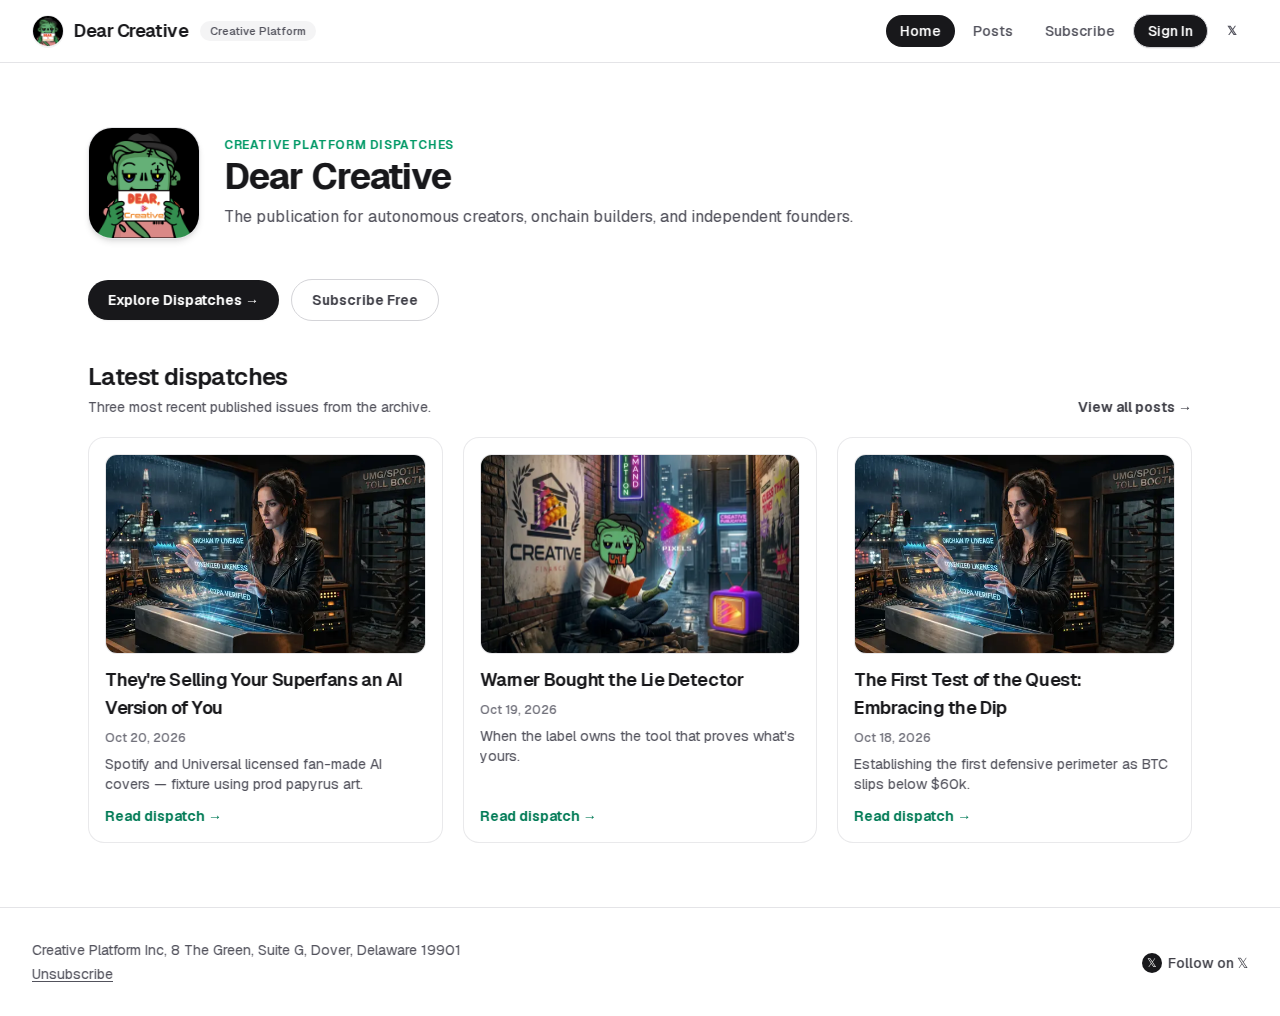
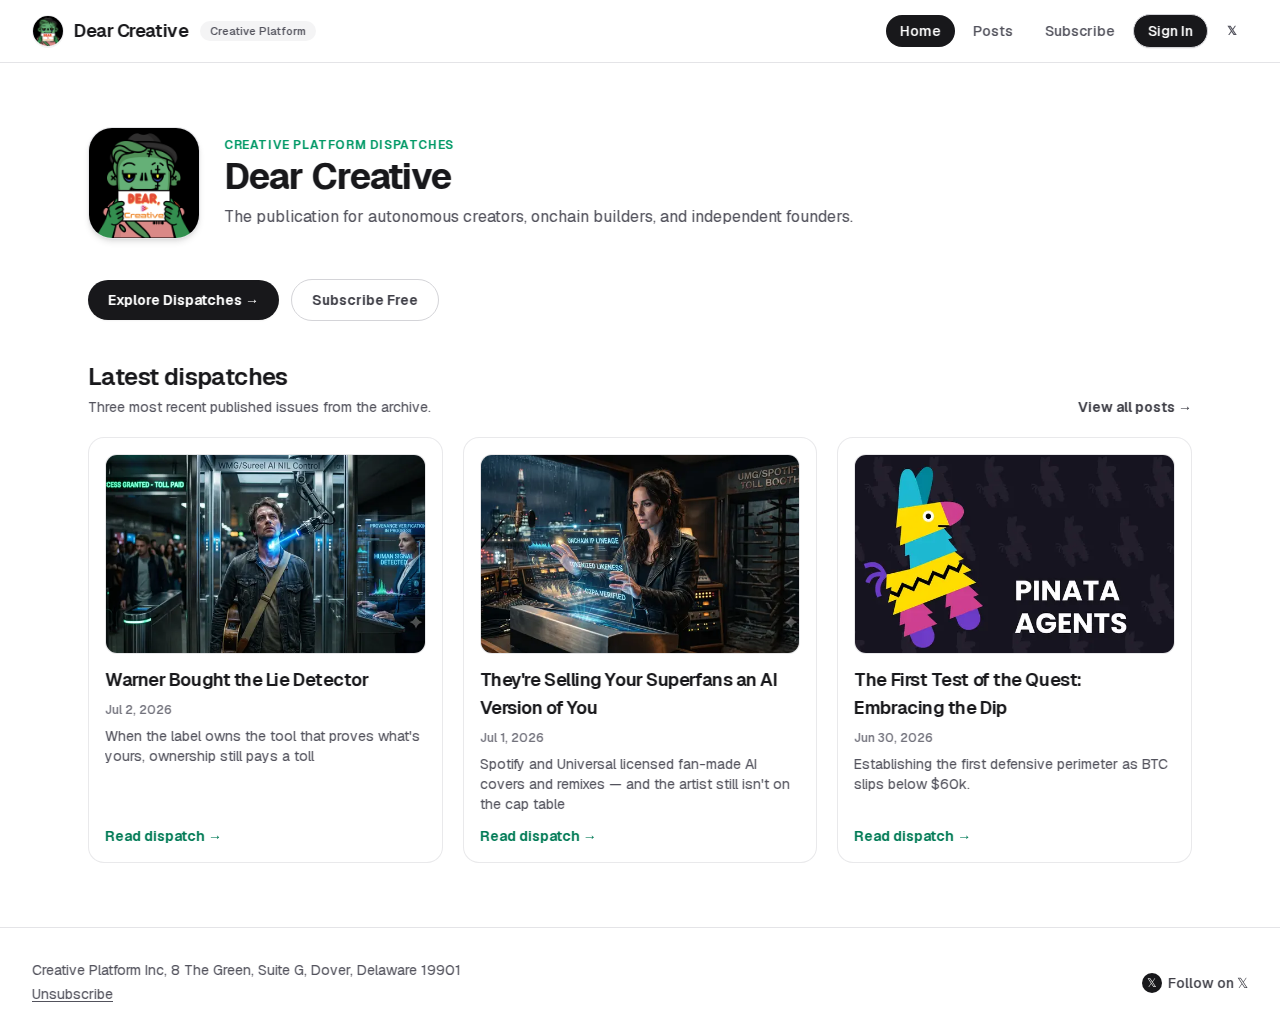
Align papyrus prod seed with real dates and distinct cover URLs
Use RSS publishedAt and first papyrus_images URL per prod post. Warner,
Superfans, and First Test each use a different cover hash in prod (verified).
Remove legacy fixture-papyrus-prod-* rows on reseed. Retake after screenshot.

diff --git a/scripts/seed-home-spotlight-fixtures.ts b/scripts/seed-home-spotlight-fixtures.ts
@@ -30,6 +30,9 @@ const FIXTURE_SLUGS = [
   "fixture-papyrus-prod-1",
   "fixture-papyrus-prod-2",
   "fixture-papyrus-prod-3",
+  "warner-bought-the-lie-detector",
+  "theyre-selling-your-superfans-an-ai-version-of-you",
+  "first-test-embracing-the-dip",
   "hello-dear-creative",
 ] as const;
 
@@ -66,10 +69,38 @@ function hiddenPosts(now: Date): (typeof posts.$inferInsert)[] {
   ];
 }
 
-/** Verified public prod art (read from news.creativeplatform.xyz post HTML). */
-const PAPYRUS_PROD_COVER_URLS = [
-  "https://storage.googleapis.com/papyrus_images/1561f2d41303599b84b0b17bec1b224df57d01b39a51109b25adec70bfe7896c.png",
-  "https://storage.googleapis.com/papyrus_images/a5984b0c760cd841db3c8264d1cb1fde1617ee70abf3a6783623a4711630a484.png",
+/**
+ * Prod spotlight fixtures — publishedAt/teaser/cover from news.creativeplatform.xyz
+ * (RSS pubDate + first papyrus_images URL in each post HTML). Superfans and First Test
+ * use different cover hashes in prod (verified 2026-10-20).
+ */
+const PAPYRUS_PROD_SPOTLIGHT_FIXTURES = [
+  {
+    slug: "warner-bought-the-lie-detector",
+    title: "Warner Bought the Lie Detector",
+    publishedAt: "2026-07-02T18:21:00.000Z",
+    teaserText:
+      "When the label owns the tool that proves what's yours, ownership still pays a toll",
+    coverUrl:
+      "https://storage.googleapis.com/papyrus_images/6f52948c2fb7290037aa293dfb6895bbc292048402fc581c4ed0bd9cfe993da4.png",
+  },
+  {
+    slug: "theyre-selling-your-superfans-an-ai-version-of-you",
+    title: "They're Selling Your Superfans an AI Version of You",
+    publishedAt: "2026-07-01T04:07:47.000Z",
+    teaserText:
+      "Spotify and Universal licensed fan-made AI covers and remixes — and the artist still isn't on the cap table",
+    coverUrl:
+      "https://storage.googleapis.com/papyrus_images/1561f2d41303599b84b0b17bec1b224df57d01b39a51109b25adec70bfe7896c.png",
+  },
+  {
+    slug: "first-test-embracing-the-dip",
+    title: "The First Test of the Quest: Embracing the Dip",
+    publishedAt: "2026-07-01T03:34:41.000Z",
+    teaserText: "Establishing the first defensive perimeter as BTC slips below $60k.",
+    coverUrl:
+      "https://storage.googleapis.com/papyrus_images/481239ca7e113284f075d4c8ce83524ae7c97866309e776cc240b90aad8b2790.png",
+  },
 ] as const;
 
 async function main() {
@@ -100,46 +131,19 @@ async function main() {
 
   if (papyrusProdShot) {
     rows = [
-      {
+      ...PAPYRUS_PROD_SPOTLIGHT_FIXTURES.map((fixture) => ({
         id: randomUUID(),
-        slug: "fixture-papyrus-prod-1",
-        title: "They're Selling Your Superfans an AI Version of You",
-        status: "published",
-        publishedAt: new Date("2026-10-20T12:00:00.000Z"),
-        teaserText:
-          "Spotify and Universal licensed fan-made AI covers — fixture using prod papyrus art.",
+        slug: fixture.slug,
+        title: fixture.title,
+        status: "published" as const,
+        publishedAt: new Date(fixture.publishedAt),
+        teaserText: fixture.teaserText,
         freeContent: null,
-        bodyHtml: `<p>Paid body.</p><img src="${PAPYRUS_PROD_COVER_URLS[0]}" alt="Cover" />`,
-        source: "paragraph",
+        bodyHtml: `<p>Paid body.</p><img src="${fixture.coverUrl}" alt="Cover" />`,
+        source: "paragraph" as const,
         createdAt: now,
         updatedAt: now,
-      },
-      {
-        id: randomUUID(),
-        slug: "fixture-papyrus-prod-2",
-        title: "Warner Bought the Lie Detector",
-        status: "published",
-        publishedAt: new Date("2026-10-19T12:00:00.000Z"),
-        teaserText: "When the label owns the tool that proves what's yours.",
-        freeContent: null,
-        bodyHtml: `<p>Paid body.</p><img src="${PAPYRUS_PROD_COVER_URLS[1]}" alt="Cover" />`,
-        source: "paragraph",
-        createdAt: now,
-        updatedAt: now,
-      },
-      {
-        id: randomUUID(),
-        slug: "fixture-papyrus-prod-3",
-        title: "The First Test of the Quest: Embracing the Dip",
-        status: "published",
-        publishedAt: new Date("2026-10-18T12:00:00.000Z"),
-        teaserText: "Establishing the first defensive perimeter as BTC slips below $60k.",
-        freeContent: null,
-        bodyHtml: `<p>Paid body.</p><img src="${PAPYRUS_PROD_COVER_URLS[0]}" alt="Cover" />`,
-        source: "paragraph",
-        createdAt: now,
-        updatedAt: now,
-      },
+      })),
       ...hiddenPosts(now),
     ];
   } else if (noTeaserShot) {
